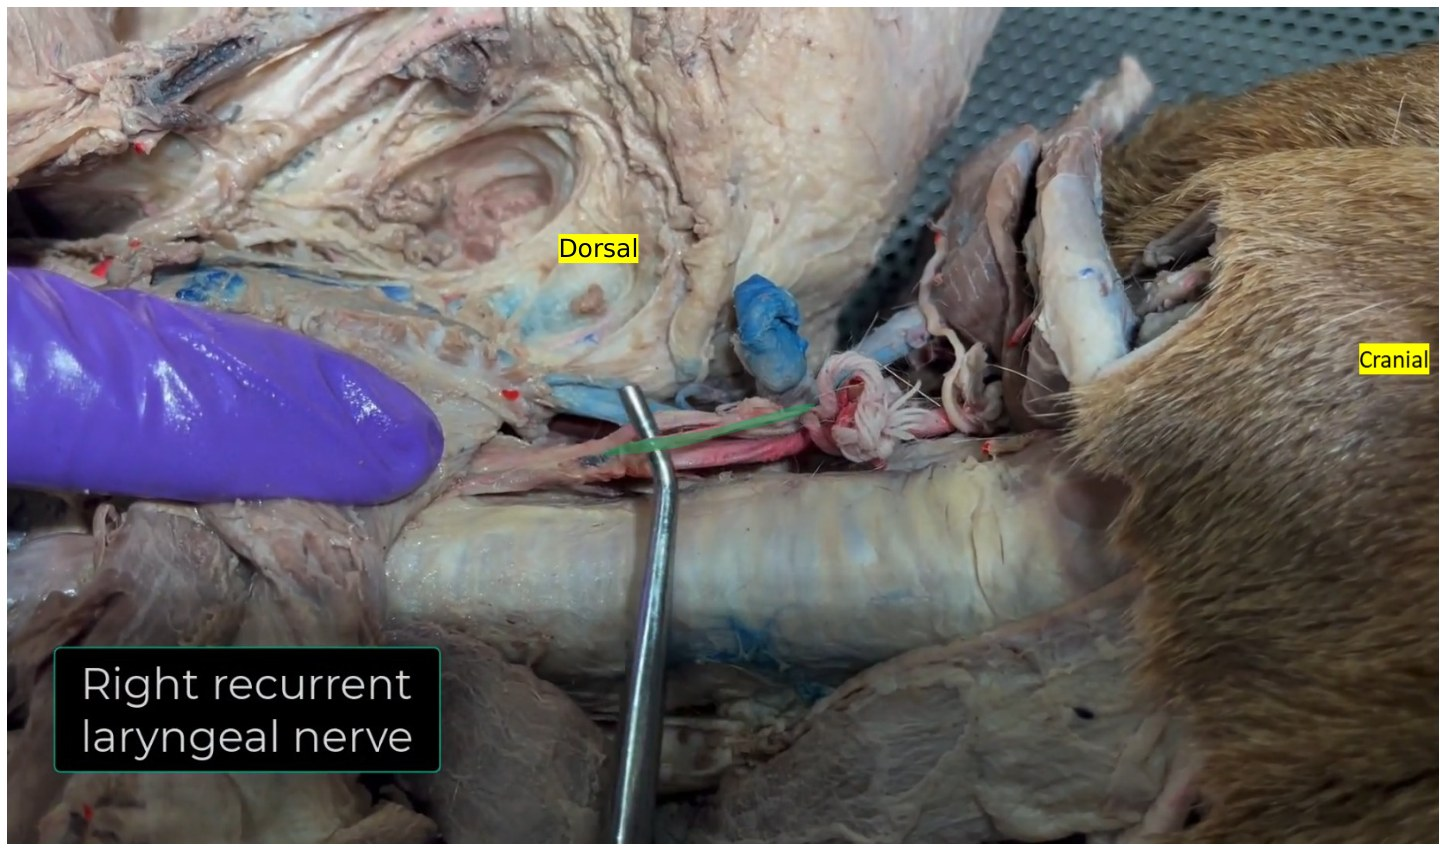
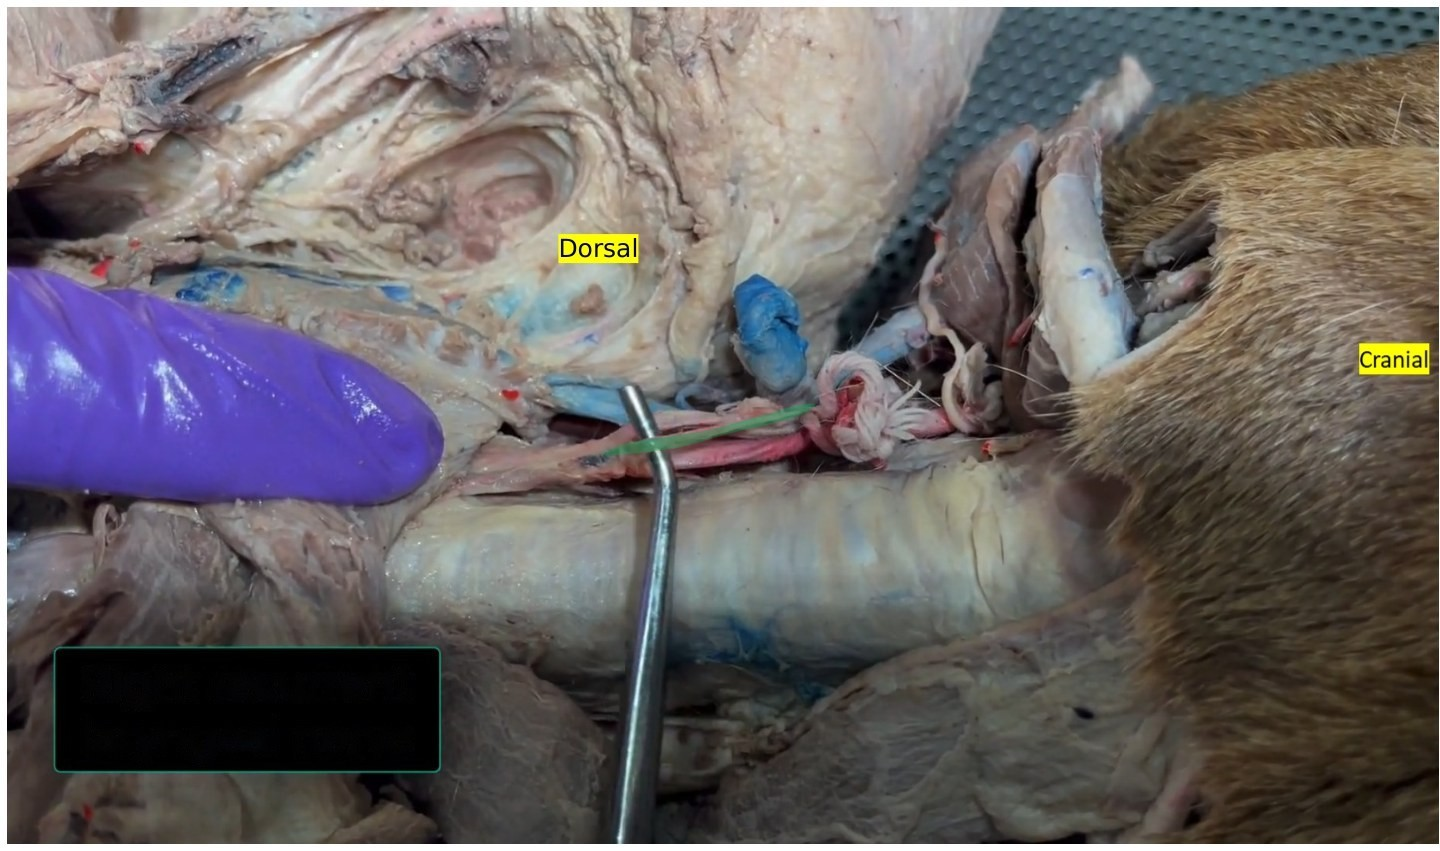
Practical 3: erase leftover label words on question images (kidney cortex/medulla, costocervical trunk, papillary muscle, trabeculae, laryngeal nerves, phrenicopericardial ligament, heart base/apex, repro drawings); p3leakfix --only
Claude-Session: https://claude.ai/code/session_01EZD6AjCAVcGKzMx6UuimYW

diff --git a/tools/p3leakfix.py b/tools/p3leakfix.py
@@ -7,7 +7,8 @@ import sys,glob,re,os,json
 from multiprocessing import Pool
 import cv2,numpy as np,pytesseract
 from PIL import Image
-KEEP={'rostral','cranial','caudal','dorsal','ventral','medial','lateral','left','right','proximal','distal','crania','dorsa','nial','ventra','cranial','caud','lateral','medial','anterior','posterior'}
+KEEP={'ranial','entral','audal','orsal','ostral','rostral','cranial','caudal','dorsal','ventral','medial','lateral','left','right','proximal','distal','crania','dorsa','nial','ventra','cranial','caud','lateral','medial','anterior','posterior'}
+ONLY=next((a.split('=',1)[1].lower().split(',') for a in sys.argv if a.startswith('--only=')),None)   # e.g. --only=right : erase just these words (label boxes starting with Right/Left)
 def words(gray):
     H,W=gray.shape; out=[]
     for ang in (0,45,-45,60,-60,90):
@@ -18,7 +19,7 @@ def words(gray):
             d=pytesseract.image_to_data(img,config='--psm 11',output_type=pytesseract.Output.DICT)
             for i,t in enumerate(d['text']):
                 t=t.strip()
-                if not re.fullmatch(r'[A-Za-z]{4,}',t) or float(d['conf'][i])<80 or t.lower() in KEEP: continue
+                if not re.fullmatch(r'[A-Za-z]{4,}',t) or float(d['conf'][i])<80 or (ONLY is None and t.lower() in KEEP) or (ONLY is not None and t.lower() not in ONLY): continue
                 x,y,w,h=d['left'][i],d['top'][i],d['width'][i],d['height'][i]
                 pts=np.array([[x-4,y-4],[x+w+4,y-4],[x+w+4,y+h+4],[x-4,y+h+4]],float)
                 pts=(Mi[:,:2]@pts.T).T+Mi[:,2]
@@ -39,7 +40,8 @@ def fix(path,dry=False):
         vals=G[sel]; med=np.median(vals)
         # letters = the minority tone in the box (white text on tissue or dark text on light)
         lo,hi=np.percentile(vals,15),np.percentile(vals,85)
-        txt=(G>=hi-5) if (hi-med)>(med-lo) else (G<=lo+5)
+        if med>190: txt=G<med-25                                            # drawing: dark/grey letters on white
+        else: txt=(G>=hi-5) if (hi-med)>(med-lo) else (G<=lo+5)
         mask[sel&txt]=255
     mask=cv2.dilate(mask,np.ones((3,3),np.uint8),iterations=2)
     cv2.imwrite(path,cv2.inpaint(im,mask,5,cv2.INPAINT_TELEA),[cv2.IMWRITE_JPEG_QUALITY,90])
